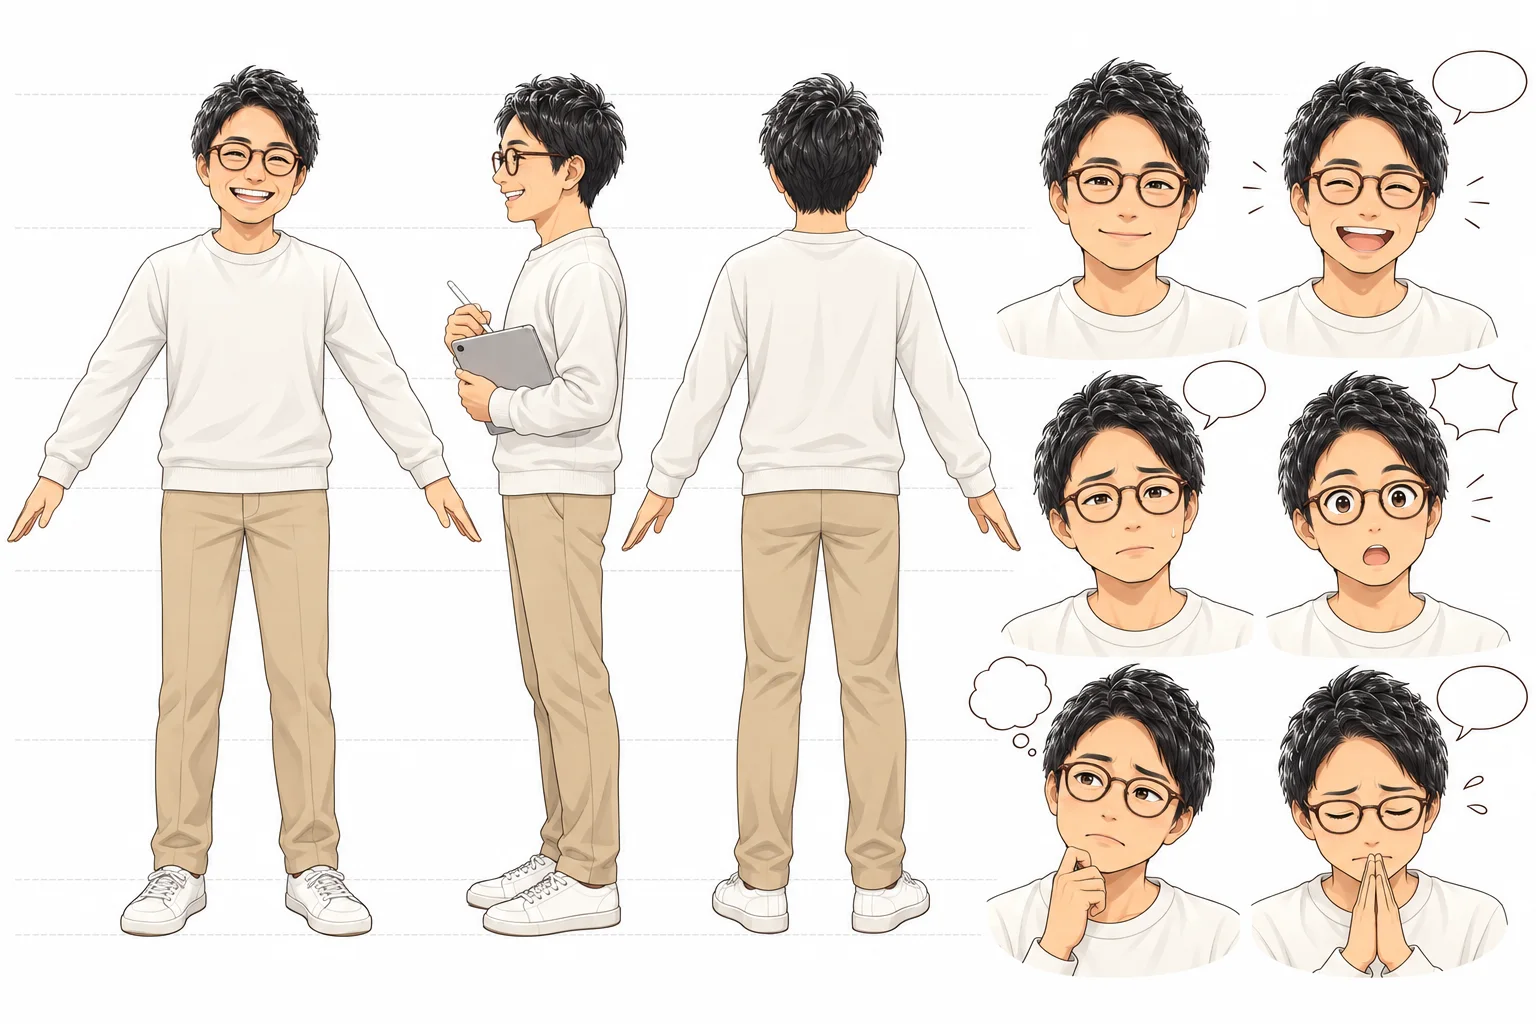
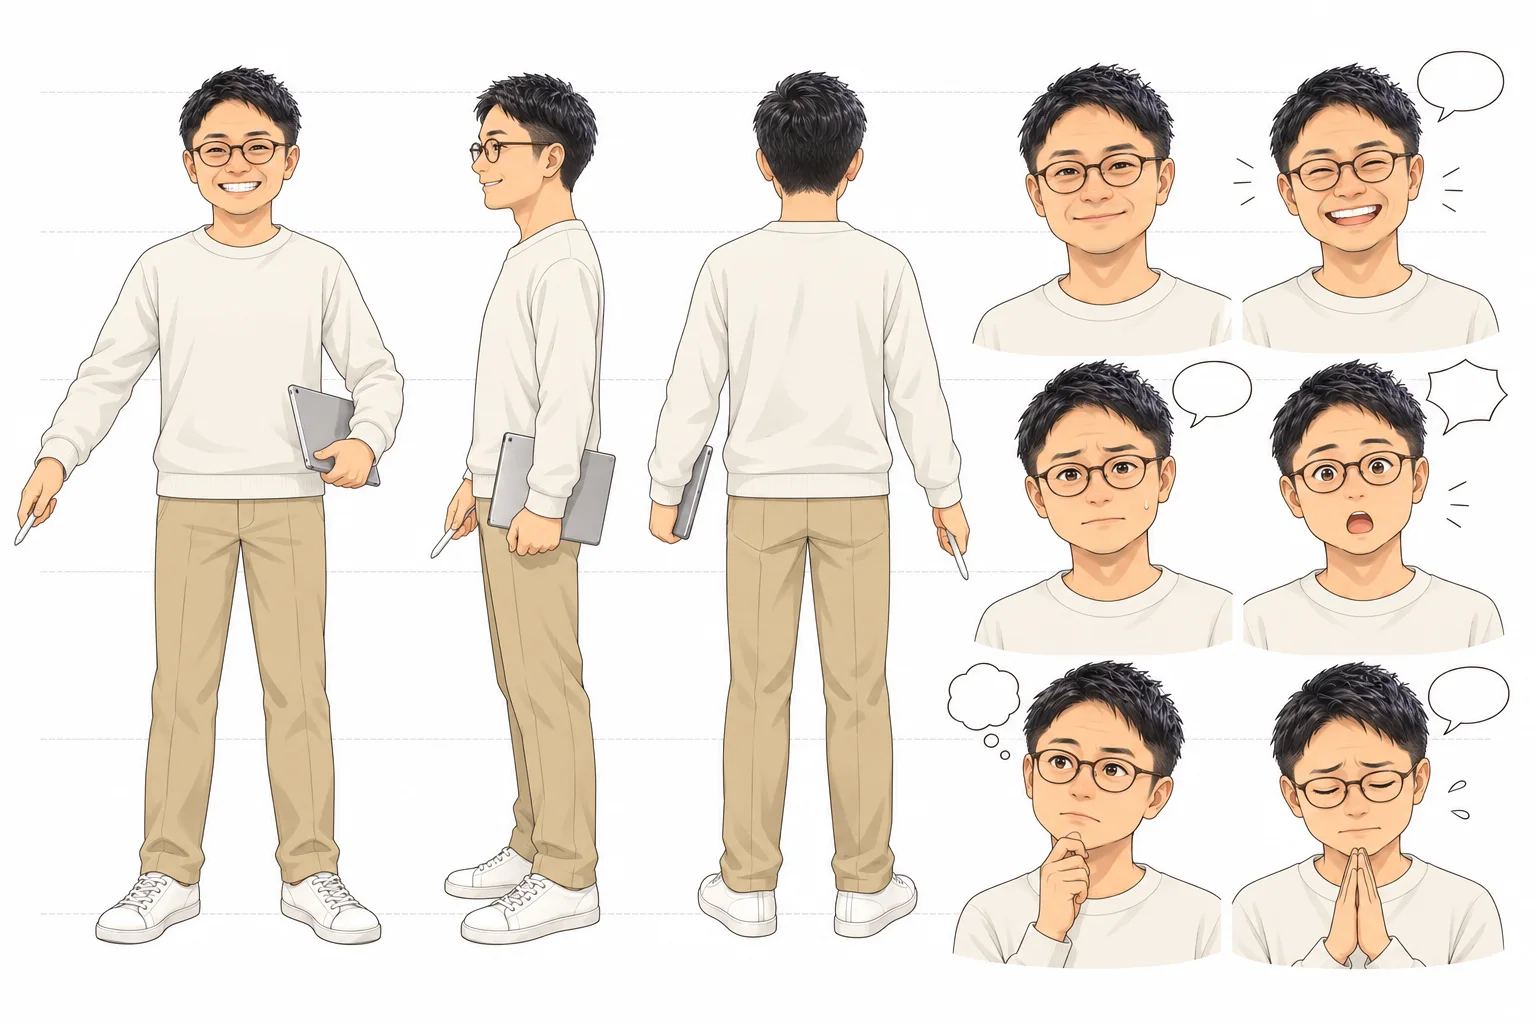
とうじょう人物: 白井さんの 髪型を 写真に 合わせて 落ちつかせる
ユーザーの 指摘「設定画の 髪型が ちょっと やりすぎ」（2026-10-09）。
公式サイトの 写真で 撮った 設定画は、髪が 逆立って ボリュームが 出すぎて いた。

- 参考写真を ユーザーが 選んだ 1枚に 差し替える（下の スライドの 印は 切りおとした）
- 見た目の 指定の 髪の 1文だけを 書き直す（横と 後ろは 短く、上は 少しだけ 長く
  軽く 後ろへ 流す。逆立てない・ふくらませない）。服・めがね・顔は そのまま
- 設定画と 顔の 切り出しを 撮り直す（絵柄の 見本は 前と 同じ 湯川さんの 設定画）

保護パス public/img/characters/ を 含むため ALLOW_SHARED=1（作り直しは ユーザーの 指示）。

diff --git a/src/content/git-contents.generated.ts b/src/content/git-contents.generated.ts
@@ -71,7 +71,7 @@ export const GIT_CONTENTS: readonly unknown[] = [
   // content/characters/risa.json
   {"kind":"character","id":"risa","name":"りさ","reading":"りさ","role":"日本語の先生","looks":"Japanese-style anime character, woman in her early twenties, slim, lively posture. Long straight black hair tied in a low ponytail, with a straight fringe across the forehead. Fair skin, dark brown eyes, bright open smile. Outfit: navy short-sleeve polo shirt (#26355B) with a small white embroidered mark on the left chest, long black pleated skirt to mid-calf, white sneakers. No glasses.","personality":"あかるくて 元気です。ゆっくり はっきり 話します。よく ほめます。","sheet":{"src":"/img/characters/risa/sheet.webp","prompt":"A character model sheet for a Japanese language-learning manga.\nLayout: front view (full body, T-pose) on the left, right side view and back view next to it,\nand a column of 6 bust-up facial expressions on the right\n(neutral, smiling, worried, surprised, thinking, apologetic).\nWhite background. Light grid lines overlay to keep eye level consistent across views.\nCharacter: 日本語の先生 — Japanese-style anime character, woman in her early twenties, slim, lively posture. Long straight black hair tied in a low ponytail, with a straight fringe across the forehead. Fair skin, dark brown eyes, bright open smile. Outfit: navy short-sleeve polo shirt (#26355B) with a small white embroidered mark on the left chest, long black pleated skirt to mid-calf, white sneakers. No glasses.\nPersonality (affects posture and expression): あかるくて 元気です。ゆっくり はっきり 話します。よく ほめます。\nStyle: clean modern Japanese manga / anime style, soft cel shading, bright friendly palette, rounded shapes, no harsh shadows, office and school settings, contemporary Japan.\nAvoid: no text, no letters, no kanji, no kana, no numbers anywhere in the image, speech balloons must be completely EMPTY (white inside, no writing), no watermark, no signature, no logo, no frame border, no six fingers, no extra limbs, no costume changes between panels, no duplicate faces of the same character in one panel.\nDo NOT write the character's name or any label on the sheet.","refs":["/img/characters/risa/reference.jpg"],"status":"done"},"portrait":"/img/characters/risa/portrait.webp","references":["/img/characters/risa/reference.jpg"]},
   // content/characters/shirai.json
-  {"kind":"character","id":"shirai","name":"白井","reading":"しらい","role":"デザイナー（Webデザインを 担当）","looks":"Japanese-style anime character, man in his mid thirties, medium build, relaxed cheerful posture. His face, hair and glasses are taken from the reference photograph — keep the same face shape, eyes and smile, drawn in anime style. Short black hair, textured and tousled upward on top with natural volume, neatly short on the sides. Round dark-brown tortoiseshell glasses with thin rims (boston shape). Fair skin, dark brown eyes that crinkle when he smiles, a wide bright smile showing his upper teeth, clean-shaven. Outfit: plain off-white crew-neck sweatshirt (#F3F1EA) with long sleeves and ribbed cuffs, no writing or logo on it; beige chino trousers (#CDBB9A); white low-top sneakers. Carries a slim silver tablet and a white stylus pen (he draws on it). No lanyard.","personality":"Webサイトの デザインを します。14年 似顔絵や イラストを かいて きました。入社して 最初の 月に、カンボジアで 似顔絵を かきました。新しい ことに よく 挑戦して、毎日 わくわくして います。ITと 絵を 合わせて、新しい ものを 作りたいと 考えて います。","sheet":{"src":"/img/characters/shirai/sheet.webp","prompt":"A character model sheet for a Japanese language-learning manga.\nLayout: front view (full body, T-pose) on the left, right side view and back view next to it,\nand a column of 6 bust-up facial expressions on the right\n(neutral, smiling, worried, surprised, thinking, apologetic).\nWhite background. Light grid lines overlay to keep eye level consistent across views.\nCharacter: デザイナー（Webデザインを 担当） — Japanese-style anime character, man in his mid thirties, medium build, relaxed cheerful posture. His face, hair and glasses are taken from the reference photograph — keep the same face shape, eyes and smile, drawn in anime style. Short black hair, textured and tousled upward on top with natural volume, neatly short on the sides. Round dark-brown tortoiseshell glasses with thin rims (boston shape). Fair skin, dark brown eyes that crinkle when he smiles, a wide bright smile showing his upper teeth, clean-shaven. Outfit: plain off-white crew-neck sweatshirt (#F3F1EA) with long sleeves and ribbed cuffs, no writing or logo on it; beige chino trousers (#CDBB9A); white low-top sneakers. Carries a slim silver tablet and a white stylus pen (he draws on it). No lanyard.\nPersonality (affects posture and expression): Webサイトの デザインを します。14年 似顔絵や イラストを かいて きました。入社して 最初の 月に、カンボジアで 似顔絵を かきました。新しい ことに よく 挑戦して、毎日 わくわくして います。ITと 絵を 合わせて、新しい ものを 作りたいと 考えて います。\nStyle: clean modern Japanese manga / anime style, soft cel shading, bright friendly palette, rounded shapes, no harsh shadows, office and school settings, contemporary Japan.\nAvoid: no text, no letters, no kanji, no kana, no numbers anywhere in the image, speech balloons must be completely EMPTY (white inside, no writing), no watermark, no signature, no logo, no frame border, no six fingers, no extra limbs, no costume changes between panels, no duplicate faces of the same character in one panel.\nDo NOT write the character's name or any label on the sheet.","refs":["/img/characters/shirai/reference.jpg","/img/characters/yukawa/sheet.webp"],"status":"done"},"portrait":"/img/characters/shirai/portrait.webp","references":["/img/characters/shirai/reference.jpg"]},
+  {"kind":"character","id":"shirai","name":"白井","reading":"しらい","role":"デザイナー（Webデザインを 担当）","looks":"Japanese-style anime character, man in his mid thirties, medium build, relaxed cheerful posture. His face, hair and glasses are taken from the reference photograph — keep the same face shape, eyes and smile, drawn in anime style. Short black hair kept neat and low: the sides and back are cut short, the top is only slightly longer and lightly brushed up and back at the front with a little texture. The hair stays close to the head — NOT spiky, NOT fluffy or voluminous, NOT messy. Round dark-brown tortoiseshell glasses with thin rims (boston shape). Fair skin, dark brown eyes that crinkle when he smiles, a wide bright smile showing his upper teeth, clean-shaven. Outfit: plain off-white crew-neck sweatshirt (#F3F1EA) with long sleeves and ribbed cuffs, no writing or logo on it; beige chino trousers (#CDBB9A); white low-top sneakers. Carries a slim silver tablet and a white stylus pen (he draws on it). No lanyard.","personality":"Webサイトの デザインを します。14年 似顔絵や イラストを かいて きました。入社して 最初の 月に、カンボジアで 似顔絵を かきました。新しい ことに よく 挑戦して、毎日 わくわくして います。ITと 絵を 合わせて、新しい ものを 作りたいと 考えて います。","sheet":{"src":"/img/characters/shirai/sheet.webp","prompt":"A character model sheet for a Japanese language-learning manga.\nLayout: front view (full body, T-pose) on the left, right side view and back view next to it,\nand a column of 6 bust-up facial expressions on the right\n(neutral, smiling, worried, surprised, thinking, apologetic).\nWhite background. Light grid lines overlay to keep eye level consistent across views.\nCharacter: デザイナー（Webデザインを 担当） — Japanese-style anime character, man in his mid thirties, medium build, relaxed cheerful posture. His face, hair and glasses are taken from the reference photograph — keep the same face shape, eyes and smile, drawn in anime style. Short black hair kept neat and low: the sides and back are cut short, the top is only slightly longer and lightly brushed up and back at the front with a little texture. The hair stays close to the head — NOT spiky, NOT fluffy or voluminous, NOT messy. Round dark-brown tortoiseshell glasses with thin rims (boston shape). Fair skin, dark brown eyes that crinkle when he smiles, a wide bright smile showing his upper teeth, clean-shaven. Outfit: plain off-white crew-neck sweatshirt (#F3F1EA) with long sleeves and ribbed cuffs, no writing or logo on it; beige chino trousers (#CDBB9A); white low-top sneakers. Carries a slim silver tablet and a white stylus pen (he draws on it). No lanyard.\nPersonality (affects posture and expression): Webサイトの デザインを します。14年 似顔絵や イラストを かいて きました。入社して 最初の 月に、カンボジアで 似顔絵を かきました。新しい ことに よく 挑戦して、毎日 わくわくして います。ITと 絵を 合わせて、新しい ものを 作りたいと 考えて います。\nStyle: clean modern Japanese manga / anime style, soft cel shading, bright friendly palette, rounded shapes, no harsh shadows, office and school settings, contemporary Japan.\nAvoid: no text, no letters, no kanji, no kana, no numbers anywhere in the image, speech balloons must be completely EMPTY (white inside, no writing), no watermark, no signature, no logo, no frame border, no six fingers, no extra limbs, no costume changes between panels, no duplicate faces of the same character in one panel.\nDo NOT write the character's name or any label on the sheet.","refs":["/img/characters/shirai/reference.jpg","/img/characters/yukawa/sheet.webp"],"status":"done"},"portrait":"/img/characters/shirai/portrait.webp","references":["/img/characters/shirai/reference.jpg"]},
   // content/characters/soka.json
   {"kind":"character","id":"soka","name":"ソカ","reading":"そか","role":"新人エンジニア（カンボジアから 来て、入社 1年目）","looks":"Cambodian woman in her early twenties — clearly Southeast Asian, drawn after the attached learner illustration (same face, hair and colouring). Warm light-brown skin. Straight black hair with a centre part, falling just past the shoulders, no fringe. Soft oval face, brown almond eyes with gentle double eyelids, thin natural eyebrows, a small warm smile. Outfit: a coral (#F26B4F) long-sleeved button-down shirt with one chest pocket, sleeves rolled to just below the elbow, worn untucked; dark navy slim trousers; white low-top sneakers. Carries a small A6 notebook with a cream cover. Height about 158cm, slim build, attentive upright posture. No glasses, no lanyard, no jewellery.","personality":"まじめで、すぐ 動きます。あわてると 気もちが 先に 出ますが、教えて もらうと すぐ 直します。メモを よく とります。","sheet":{"src":"/img/characters/soka/sheet.webp","prompt":"A character model sheet for a Japanese language-learning manga.\nLayout: front view (full body, T-pose) on the left, right side view and back view next to it,\nand a column of 6 bust-up facial expressions on the right\n(neutral, smiling, worried, surprised, thinking, apologetic).\nWhite background. Light grid lines overlay to keep eye level consistent across views.\nCharacter: 新人エンジニア（カンボジアから 来て、入社 1年目） — Cambodian woman in her early twenties — clearly Southeast Asian, drawn after the attached learner illustration (same face, hair and colouring). Warm light-brown skin. Straight black hair with a centre part, falling just past the shoulders, no fringe. Soft oval face, brown almond eyes with gentle double eyelids, thin natural eyebrows, a small warm smile. Outfit: a coral (#F26B4F) long-sleeved button-down shirt with one chest pocket, sleeves rolled to just below the elbow, worn untucked; dark navy slim trousers; white low-top sneakers. Carries a small A6 notebook with a cream cover. Height about 158cm, slim build, attentive upright posture. No glasses, no lanyard, no jewellery.\nPersonality (affects posture and expression): まじめで、すぐ 動きます。あわてると 気もちが 先に 出ますが、教えて もらうと すぐ 直します。メモを よく とります。\nStyle: clean modern Japanese manga / anime style, soft cel shading, bright friendly palette, rounded shapes, no harsh shadows, office and school settings, contemporary Japan.\nAvoid: no text, no letters, no kanji, no kana, no numbers anywhere in the image, speech balloons must be completely EMPTY (white inside, no writing), no watermark, no signature, no logo, no frame border, no six fingers, no extra limbs, no costume changes between panels, no duplicate faces of the same character in one panel.\nDo NOT write the character's name or any label on the sheet.","refs":["/img/articles/kaisha_shirabekata/g1.webp","/img/characters/okuda/sheet.webp"],"status":"done"},"references":["/img/articles/kaisha_shirabekata/g1.webp"]},
   // content/characters/tomita.json

diff --git a/src/content/asset-versions.generated.ts b/src/content/asset-versions.generated.ts
@@ -864,9 +864,9 @@ export const ASSET_VERSIONS: Readonly<Record<string, string>> = {
   "/img/characters/risa/portrait.webp": "c9516500",
   "/img/characters/risa/reference.jpg": "3b63fc7d",
   "/img/characters/risa/sheet.webp": "e6711916",
-  "/img/characters/shirai/portrait.webp": "0d03fe40",
-  "/img/characters/shirai/reference.jpg": "f3043783",
-  "/img/characters/shirai/sheet.webp": "99429865",
+  "/img/characters/shirai/portrait.webp": "ebc5d6e4",
+  "/img/characters/shirai/reference.jpg": "f943cd23",
+  "/img/characters/shirai/sheet.webp": "3acfb50d",
   "/img/characters/soka/sheet.webp": "ef6a9b4a",
   "/img/characters/tomita/sheet.webp": "a7b0da46",
   "/img/characters/yukawa/portrait.webp": "671bb08e",
